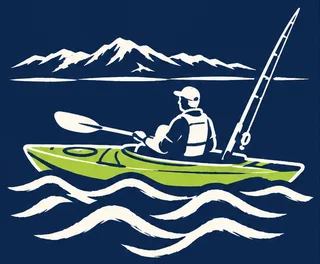
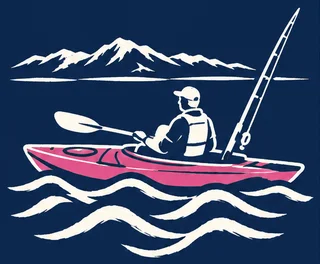
v10: カヤックの色を若草から桜色（自分の艇と同じ）に

Changed region(s): [[0.0625, 0.5455, 0.9375, 0.7273]]

diff --git a/index.html b/index.html
@@ -74,7 +74,7 @@
   .locbtn{border:1px solid var(--line);background:var(--card);color:var(--accent);border-radius:999px;
     padding:6px 12px;font-size:12px;font-weight:600;cursor:pointer;white-space:nowrap}
   .locbtn:active{transform:scale(.97)}
-  /* 上部の紺の帯（アプリアイコンと同じ紺地に若草のカヤック） */
+  /* 上部の紺の帯（アプリアイコンと同じ紺地に桜色のカヤック） */
   .hero{position:relative;overflow:hidden;background:var(--kon);color:#fff;
     margin:-16px -14px 16px;padding:18px 16px 14px;border-radius:0 0 22px 22px}
   .hero-art{position:absolute;right:-10px;top:44px;width:138px;height:auto;pointer-events:none}
@@ -313,7 +313,7 @@
   <p class="credit">
     気象・海象データ：Powered by <a href="https://open-meteo.com/" target="_blank" rel="noopener">Open-Meteo.com</a>（<a href="https://creativecommons.org/licenses/by/4.0/" target="_blank" rel="noopener">CC BY 4.0</a>）<br>
     潮汐データ：<a href="https://tide736.net/" target="_blank" rel="noopener">tide736.net</a>（気象庁 潮位表をもとに算出）<br>
-    <span style="opacity:.7">版 2026-10-23 v9（姉妹ツールをアイコンで・紺の帯とカヤック）</span>
+    <span style="opacity:.7">版 2026-10-23 v10（カヤックを自分の艇と同じ桜色に・姉妹ツールをアイコンで）</span>
   </p>
 </div>
 
